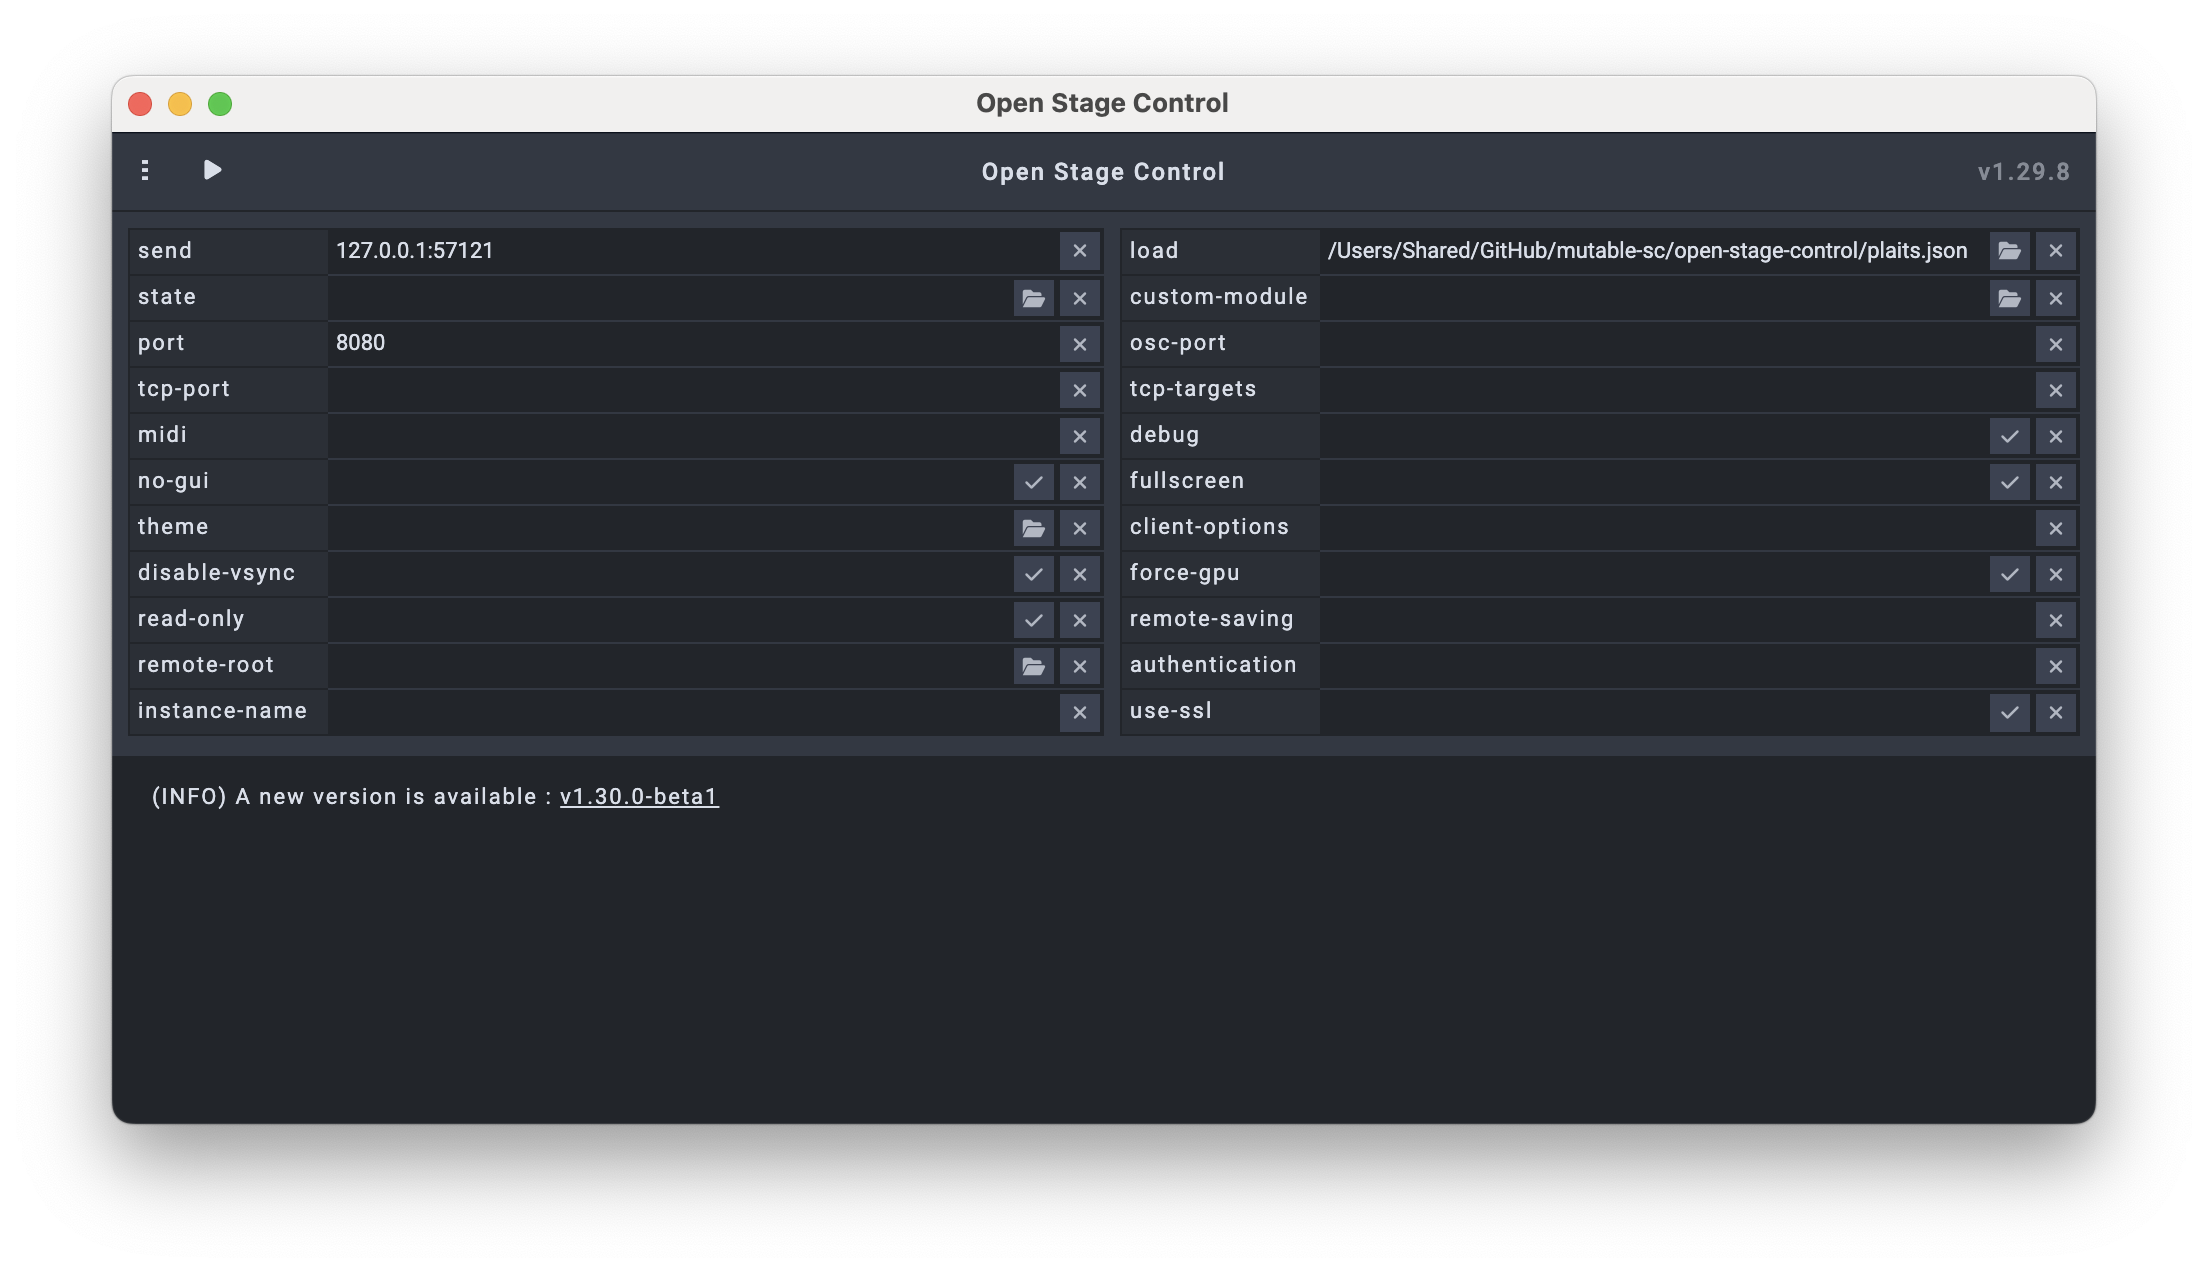
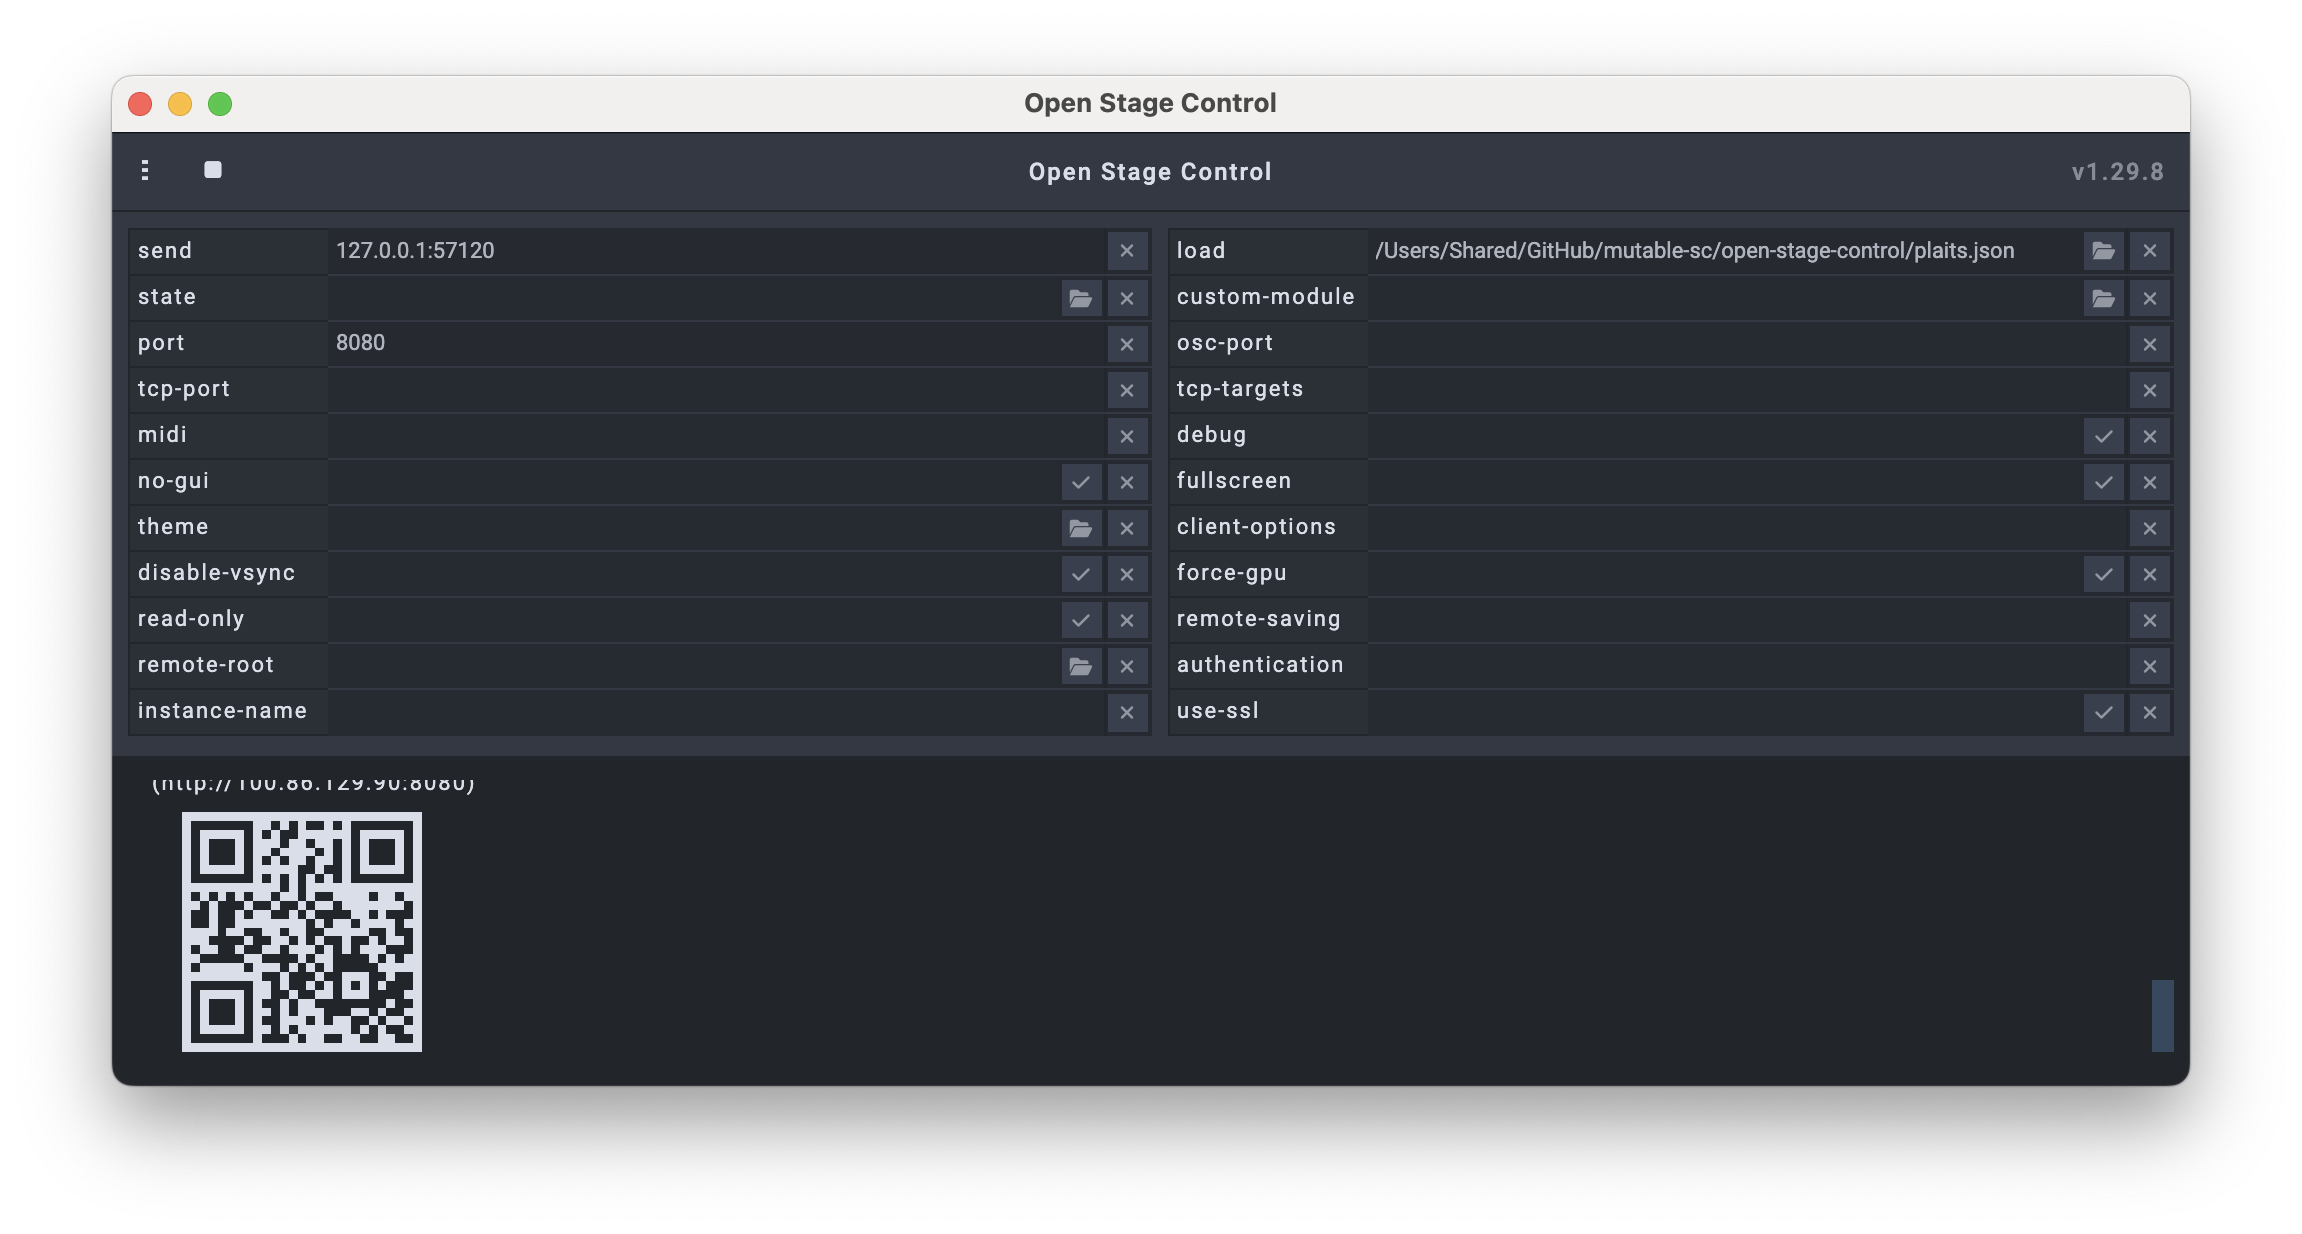
Default SC port

diff --git a/README.md b/README.md
@@ -48,7 +48,7 @@ Multi-instance Mutable Instruments Plaits synthesizer for Supercollider with pre
 4. **Launch UI**:
    - Start Open Stage Control
    - Configure launch settings:
-     - **send**: `127.0.0.1:57121` (check `NetAddr.langPort` in SC or the `diagnostic.scd` output)
+     - **send**: `127.0.0.1:57120` (check `NetAddr.langPort` in SC or the `diagnostic.scd` output)
      - **port**: `8080`
      - **load**: Path to `open-stage-control/plaits.json` in your project directory
    - Click the play button (▶) to start
